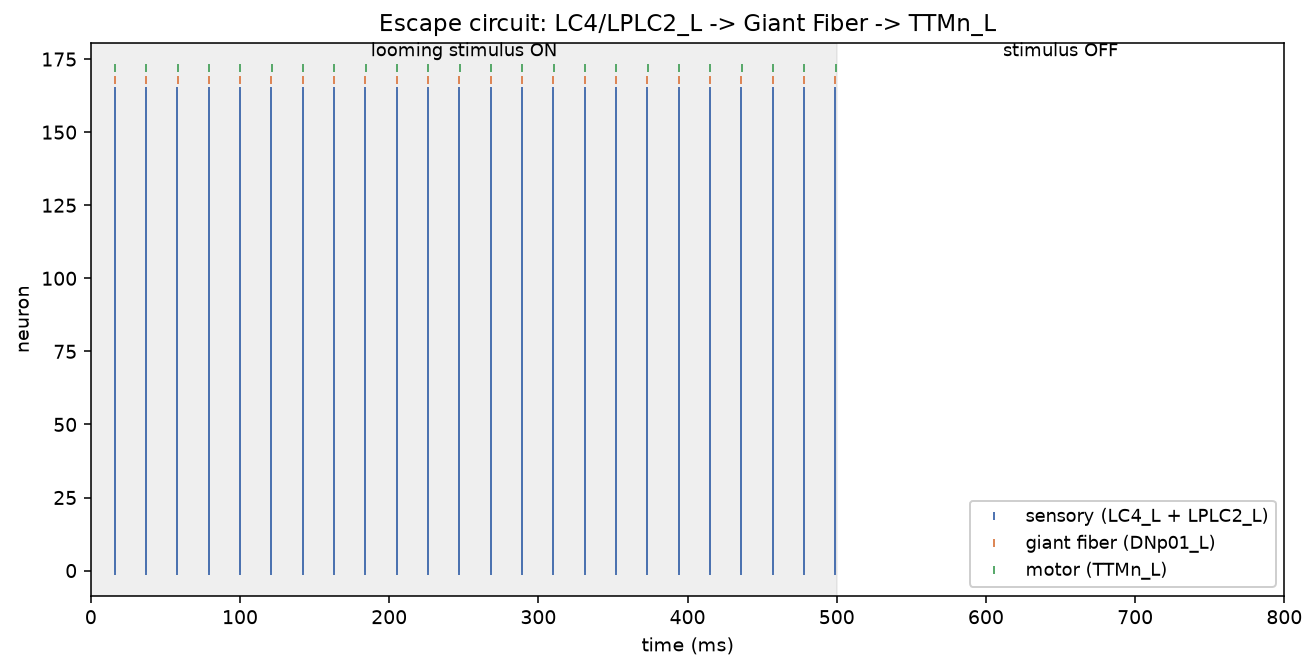
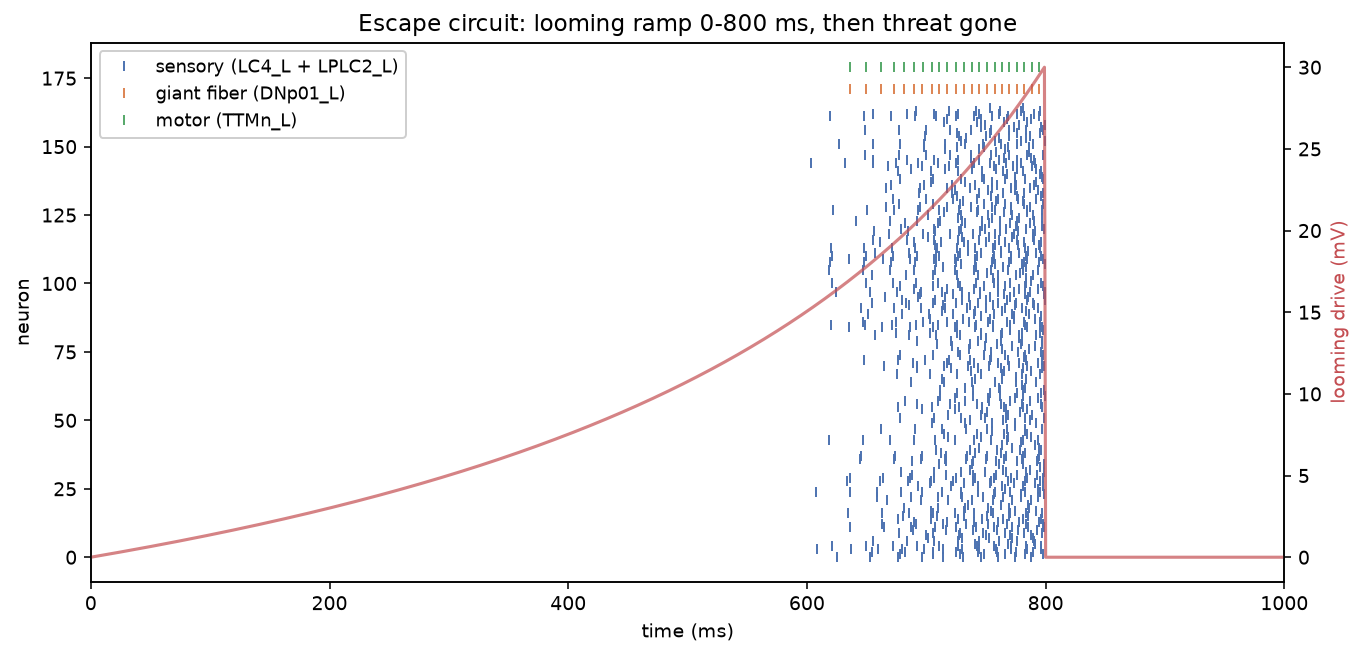
Step 2b: looming ramp stimulus and per-neuron variability
Replaces the on/off stimulus with a 1/(T_collision - t) ramp over 800 ms, so the
drive creeps and then accelerates the way an approaching object does, and gives
each sensory neuron its own excitability drawn from N(1.0, 0.15).

Result: the population now wakes up asynchronously (first spikes spread over
191 ms instead of firing in lockstep) and the Giant Fiber stays silent until
79% into the approach. It still fires a 22-spike burst rather than a single
decisive spike - reported honestly in the summary, to be addressed with
adaptation in a follow-up.

Circuit, connectome weights and the GF -> TTMn electrical-synapse justification
are unchanged.

diff --git a/simulate_circuit.py b/simulate_circuit.py
@@ -1,22 +1,22 @@
 """
-simulate_circuit.py - STEP 2: the circuit finally does something.
+simulate_circuit.py - STEP 2: the circuit makes a decision.
 
-We have the wiring (steps 0-1b). Now we turn it into neurons that actually fire, and watch
-whether a simulated "something is coming at me" makes the fly's jump command go off.
+The wiring comes from the connectome (steps 0-1b) and never changes here:
 
     LC4_L + LPLC2_L  ->  DNp01_L (Giant Fiber)  ->  TTMn_L  ->  jump
     165 visual cells     1 command cell            1 muscle driver
 
-WHAT A SPIKING SIMULATION IS, if you have never seen one. A neuron is a leaky bucket of
-voltage. Signals from other neurons pour voltage in; the bucket leaks back toward its
-resting level all the time. If the level ever reaches a threshold, the neuron "spikes"
-(fires a pulse to everyone downstream) and its bucket is instantly emptied back to rest.
-That is the whole model, and it is called Leaky Integrate-and-Fire (LIF): integrate the
-input, leak, fire, reset.
+WHAT A SPIKING SIMULATION IS. A neuron is a leaky bucket of voltage. Other neurons pour
+voltage in; the bucket leaks back toward its resting level all the time. If the level
+reaches a threshold the neuron "spikes" (fires a pulse to everyone downstream) and the
+bucket empties back to rest. That is the whole model: Leaky Integrate-and-Fire (LIF).
+BRIAN2 is a library where you describe that with a one-line equation and it runs the clock
+for you. Its party trick is UNITS: write 10*ms and -70*mV and it refuses to add them.
 
-WHAT BRIAN2 IS. A library where you describe a neuron with a one-line equation and it runs
-the clock for you. Its party trick is UNITS: you write 10*ms and -70*mV, and it refuses to
-run if you ever add a voltage to a time. You never write the time loop yourself.
+WHAT CHANGED IN THIS VERSION. The first run drove every sensory cell with the same constant
+current, so all 165 crossed threshold on the same tick forever: a metronome, not a decision.
+Two fixes, both about the INPUT, not the circuit: the stimulus now grows like an
+approaching object, and every neuron is slightly different from its neighbours.
 """
 
 import json
@@ -24,12 +24,12 @@ import numpy as np
 import matplotlib
 matplotlib.use("Agg")                  # draw into a file, not into a window
 import matplotlib.pyplot as plt
-from brian2 import (NeuronGroup, Synapses, SpikeMonitor, run, prefs, defaultclock, mV, ms)
+from brian2 import (NeuronGroup, Synapses, SpikeMonitor, TimedArray, run, prefs,
+                    defaultclock, mV, ms)
 
-# Brian2 can compile C++ for speed. This circuit is tiny, so we use plain numpy and avoid
-# needing a compiler installed on Windows.
-prefs.codegen.target = "numpy"
+prefs.codegen.target = "numpy"         # tiny circuit: no C++ compiler needed
 defaultclock.dt = 0.1 * ms             # the simulation advances in steps of 0.1 ms
+np.random.seed(0)                      # same "random" neurons on every run, so results repeat
 
 GF_BODY_ID, TTMN_BODY_ID = 10010, 804642       # left hemisphere only, from step 1b
 
@@ -37,124 +37,133 @@ GF_BODY_ID, TTMN_BODY_ID = 10010, 804642       # left hemisphere only, from step
 with open("circuit_connectivity_v2.json", encoding="utf-8") as fh:
     data = json.load(fh)
 
-# Keep only the connections landing on the LEFT Giant Fiber. Each sensory neuron contacts
-# exactly one Giant Fiber, so this cleanly selects the left-hemisphere subset.
 sensory_links = [r for r in data["connections"]["sensory_to_gf"]
-                 if r["to_bodyId"] == GF_BODY_ID]
+                 if r["to_bodyId"] == GF_BODY_ID]       # each sensory cell contacts one GF
 gf_link = [r for r in data["connections"]["gf_to_motor"]
            if r["from_bodyId"] == GF_BODY_ID and r["to_bodyId"] == TTMN_BODY_ID][0]
-
-sensory_types = [r["from_type"] for r in sensory_links]     # one row per sensory neuron
+sensory_types = [r["from_type"] for r in sensory_links]
 n_sensory = len(sensory_links)
-n_lc4 = sensory_types.count("LC4")
 print("Left-hemisphere sensory subset: {} neurons ({} LC4_L + {} LPLC2_L)".format(
-    n_sensory, n_lc4, sensory_types.count("LPLC2")))
-print("Raw synapse weights: sensory->GF {}-{}, GF->TTMn {}".format(
-    min(r["weight"] for r in sensory_links),
-    max(r["weight"] for r in sensory_links), gf_link["weight"]))
+    n_sensory, sensory_types.count("LC4"), sensory_types.count("LPLC2")))
 
-# ------------------------------------------------------------- 2. the neurons themselves
+# ------------------------------------------------------- 2. the looming stimulus, as a ramp
+# An object coming at you does not grow steadily on your retina: it creeps for a long time,
+# then explodes in size at the end. Its angular size goes like 1/distance, and at constant
+# speed the distance shrinks like (T_collision - t), so 1/(T_collision - t) is the cheapest
+# honest stand-in for "getting closer". A SIMPLIFICATION: a real looming model tracks angular
+# size and its rate of change on a curved eye. We only need the shape: slow, then sudden.
+RAMP_MS, QUIET_MS, T_COLLISION_MS = 800, 200, 1200     # virtual impact would be at 1200 ms
+PEAK_MV = 30                           # current at the end of the ramp, in mV
+
+t_ms = np.arange(RAMP_MS, dtype=float)
+raw = 1.0 / (T_COLLISION_MS - t_ms) - 1.0 / T_COLLISION_MS   # 0 at t=0, accelerating after
+ramp = PEAK_MV * raw / raw[-1]                               # rescale so the peak is PEAK_MV
+# After the ramp we cut to zero: the threat passed or was dodged. TimedArray is Brian2's
+# "look up this value at time t" object - dt=1*ms means one array entry per millisecond.
+looming = TimedArray(np.concatenate([ramp, np.zeros(QUIET_MS)]) * mV, dt=1 * ms)
+
+# ------------------------------------------------------------- 3. the neurons themselves
 V_REST, V_THRESHOLD, V_RESET = -70 * mV, -50 * mV, -70 * mV
 TAU = 10 * ms                          # how fast the bucket leaks back toward rest
 REFRACTORY = 5 * ms                    # forced silence right after a spike
 
-# The LIF equation, term by term:
-#   v            = membrane potential, the level in the bucket
-#   (V_REST - v) = the leak: when v sits above rest this is negative and drags it back down
-#   I_stim       = injected input, our stand-in for "the eye is being stimulated"
-#   / TAU        = how fast all of that happens (a big tau means a sluggish neuron)
-#   : volt       = Brian2 unit declaration - v is measured in volts
-# "(unless refractory)" freezes the voltage during the silent window after a spike.
-EQS = """
-dv/dt = (V_REST - v + I_stim) / TAU : volt (unless refractory)
-I_stim : volt
+# LIF, term by term: v is the level in the bucket; (V_REST - v) is the leak pulling it back
+# down; the stimulus pours voltage in; / TAU sets how fast; ": volt" is Brian2's unit
+# declaration; "(unless refractory)" freezes v during the silence after a spike.
+# BIOLOGICAL VARIABILITY: each sensory neuron gets its own "excitability", a multiplier on
+# how hard the same stimulus hits it. Real neurons are not clones - they differ in size, in
+# receptors, in their own membrane noise - so they never cross threshold on the same tick.
+# That messiness is the whole reason the circuit is a funnel: no single detector is
+# trustworthy, so the Giant Fiber POOLS 165 unreliable, out-of-step opinions into one call.
+EQS_SENSORY = """
+dv/dt = (V_REST - v + looming(t) * excitability) / TAU : volt (unless refractory)
+excitability : 1
 """
-COMMON = dict(model=EQS, threshold="v > V_THRESHOLD", reset="v = V_RESET",
-              refractory=REFRACTORY, method="exact")
+EQS_QUIET = """
+dv/dt = (V_REST - v) / TAU : volt (unless refractory)
+"""                                    # GF and motor are driven only by their synapses
+COMMON = dict(threshold="v > V_THRESHOLD", reset="v = V_RESET", refractory=REFRACTORY,
+              method="exact")
 
-sensory = NeuronGroup(n_sensory, name="sensory", **COMMON)
-giant_fiber = NeuronGroup(1, name="giant_fiber", **COMMON)
-motor = NeuronGroup(1, name="motor", **COMMON)
+sensory = NeuronGroup(n_sensory, EQS_SENSORY, name="sensory", **COMMON)
+sensory.excitability = np.clip(np.random.normal(1.0, 0.15, n_sensory), 0.3, None)
+giant_fiber = NeuronGroup(1, EQS_QUIET, name="giant_fiber", **COMMON)
+motor = NeuronGroup(1, EQS_QUIET, name="motor", **COMMON)
 for group in (sensory, giant_fiber, motor):
     group.v = V_REST                   # everyone starts at rest, bucket empty
 
-# --------------------------------------------------------------------- 3. the connections
-# MODELING DECISION (the connectome does not tell us this one). A synapse count is not a
-# voltage, so we have to choose what one synapse is worth in mV. The gap from rest to
-# threshold is 20 mV, so at 0.05 mV per synapse an average connection (~39 synapses)
-# delivers ~2 mV: roughly ten sensory neurons must agree within one time constant to set
-# the Giant Fiber off. That matches what the real cell does - it ignores single detectors
-# and fires when a large part of the visual field shouts "incoming" at once.
+# --------------------------------------------------------------------- 4. the connections
+# MODELING DECISION (the connectome cannot tell us this). A synapse count is not a voltage,
+# so we choose what one synapse is worth in mV. The gap from rest to threshold is 20 mV, so
+# at 0.05 mV per synapse an average connection (~39 synapses) delivers ~2 mV: about ten
+# sensory neurons must agree within one time constant to set the Giant Fiber off.
 SYNAPSE_TO_MV = 0.05 * mV
-
 sensory_to_gf = Synapses(sensory, giant_fiber, model="w : volt", on_pre="v_post += w")
 sensory_to_gf.connect(i=np.arange(n_sensory), j=np.zeros(n_sensory, dtype=int))
 sensory_to_gf.w = [r["weight"] * SYNAPSE_TO_MV for r in sensory_links]
 
 # THE GIANT FIBER -> TTMn WEIGHT IS SET BY HAND, ON PURPOSE.
-# neuPrint counts 20 chemical synapses here, far fewer than the sensory connections. Taken
-# literally that would make the last step of an escape reflex its weakest link, which is
-# wrong. In the real fly this junction is largely ELECTRICAL - a gap junction, a direct
-# hole between the two cells - and a connectome built from chemical synapse counts cannot
-# see that at all. Electrophysiology shows the connection is effectively one-to-one and
-# near failure-proof: one Giant Fiber spike, one motor spike, about 1 ms later. So we give
-# it 25 mV, just over the 20 mV needed to fire, encoding "this connection does not fail"
-# rather than the raw count of 20.
+# neuPrint counts 20 chemical synapses here, far fewer than the sensory connections, which
+# would make the last step of an escape reflex its weakest link. That is wrong: in the real
+# fly this junction is largely ELECTRICAL - a gap junction, a direct hole between the cells -
+# and a connectome built from chemical synapse counts cannot see it at all. Physiology shows
+# it is one-to-one and near failure-proof: one GF spike, one motor spike, ~1 ms later. Hence
+# 25 mV, just over the 20 mV needed to fire: "this connection does not fail", not a count.
 GF_TO_MOTOR_MV = 25 * mV
 gf_to_motor = Synapses(giant_fiber, motor, model="w : volt", on_pre="v_post += w")
 gf_to_motor.connect(i=0, j=0)
 gf_to_motor.w = GF_TO_MOTOR_MV
-
-# ------------------------------------------------------------------------- 4-5. run it
-# A SpikeMonitor is a tape recorder: it stores which neuron fired and at what time.
-# Each one needs its own plain variable: run() builds the network out of the Brian objects
-# it can see by name here, so a monitor that only exists inside a dict is silently left out
-# of the simulation and records nothing.
+# --------------------------------------------------------------------------- 5. run it
+# A SpikeMonitor records which neuron fired and when. Each needs its own plain variable:
+# run() builds the network from objects it sees by name, so one hidden in a dict is ignored.
 spikes_sensory = SpikeMonitor(sensory)
 spikes_gf = SpikeMonitor(giant_fiber)
 spikes_motor = SpikeMonitor(motor)
-monitors = {"sensory": spikes_sensory, "giant_fiber": spikes_gf, "motor": spikes_motor}
-
-# The looming stimulus: for 500 ms we inject enough current into every visual neuron to
-# push it past threshold repeatedly - "an object is growing in my field of view". Then we
-# switch it off and watch the circuit fall silent again.
-STIMULUS_MV, STIM_MS, QUIET_MS = 25 * mV, 500 * ms, 300 * ms
-sensory.I_stim = STIMULUS_MV
-run(STIM_MS)
-sensory.I_stim = 0 * mV
-run(QUIET_MS)
-
-# -------------------------------------------------------------------------- 6. raster plot
-# One tick per spike: x = when it fired, y = which neuron. The bottom band is the 165
-# sensory cells, then the Giant Fiber, then the motor neuron on top.
+run((RAMP_MS + QUIET_MS) * ms)
+# ------------------------------------------------------------------------- 6. raster plot
 fig, ax = plt.subplots(figsize=(11, 5))
-rows = [("sensory (LC4_L + LPLC2_L)", monitors["sensory"], 0, "#4c72b0"),
-        ("giant fiber (DNp01_L)", monitors["giant_fiber"], n_sensory + 3, "#dd8452"),
-        ("motor (TTMn_L)", monitors["motor"], n_sensory + 7, "#55a868")]
-for label, mon, offset, colour in rows:
-    ax.plot(mon.t / ms, np.asarray(mon.i) + offset, "|", color=colour, markersize=4,
+for label, mon, offset, colour in [
+        ("sensory (LC4_L + LPLC2_L)", spikes_sensory, 0, "#4c72b0"),
+        ("giant fiber (DNp01_L)", spikes_gf, n_sensory + 6, "#dd8452"),
+        ("motor (TTMn_L)", spikes_motor, n_sensory + 14, "#55a868")]:
+    ax.plot(mon.t / ms, np.asarray(mon.i) + offset, "|", color=colour, markersize=5,
             label=label)
-ax.axvspan(0, STIM_MS / ms, color="grey", alpha=0.12)
-ax.text(STIM_MS / ms / 2, n_sensory + 11, "looming stimulus ON", ha="center", fontsize=9)
-ax.set_xlim(0, float((STIM_MS + QUIET_MS) / ms))   # show the silent tail too
-ax.text(float(STIM_MS / ms) + 150, n_sensory + 11, "stimulus OFF", ha="center", fontsize=9)
+ax.set_xlim(0, RAMP_MS + QUIET_MS)
 ax.set_xlabel("time (ms)")
 ax.set_ylabel("neuron")
-ax.set_title("Escape circuit: LC4/LPLC2_L -> Giant Fiber -> TTMn_L")
-ax.legend(loc="lower right", fontsize=9, framealpha=0.95)
-fig.subplots_adjust(top=0.90)
+ax.set_title("Escape circuit: looming ramp 0-800 ms, then threat gone")
+ax.legend(loc="upper left", fontsize=9, framealpha=0.95)
+
+# Second y-axis: the stimulus curve itself, so you can see WHERE on the ramp the decision
+# happened rather than guessing from the spikes alone.
+ax2 = ax.twinx()
+ax2.plot(np.arange(RAMP_MS + QUIET_MS), np.concatenate([ramp, np.zeros(QUIET_MS)]),
+         color="#c44e52", linewidth=1.6, alpha=0.7)
+ax2.set_ylabel("looming drive (mV)", color="#c44e52")
 fig.savefig("escape_circuit_test.png", dpi=140, bbox_inches="tight")
 
 # ------------------------------------------------------------------------ 7. did it work?
-print("\n" + "=" * 62)
-chain = True
-for label, mon in (("sensory (165 cells)", monitors["sensory"]),
-                   ("giant fiber DNp01_L", monitors["giant_fiber"]),
-                   ("motor TTMn_L", monitors["motor"])):
-    n_spikes = len(mon.t)
-    chain = chain and n_spikes > 0
-    first = "{:.1f} ms".format(float(min(mon.t / ms))) if n_spikes else "NEVER FIRED"
-    print("{:22s} {:6d} spikes, first at {}".format(label, n_spikes, first))
-print("Chain reaction complete: stimulus -> vision -> Giant Fiber -> jump muscle."
-      if chain else "CHAIN BROKEN: some layer never fired.")
+# spike_trains() gives, per neuron, the list of times it fired; we only want each cell's
+# FIRST spike, to see whether the population woke up together or one by one.
+firsts = np.array([float(t[0] / ms) for t in spikes_sensory.spike_trains().values() if len(t)])
+gf_t = np.asarray(spikes_gf.t / ms, dtype=float)
+motor_t = np.asarray(spikes_motor.t / ms, dtype=float)
+
+print("\n" + "=" * 66)
+print("1. ASYNCHRONY: {}/{} sensory neurons fired, first spikes spread from {:.1f} to {:.1f}"
+      " ms (window {:.0f} ms, std {:.1f} ms).".format(len(firsts), n_sensory, firsts.min(),
+      firsts.max(), firsts.max() - firsts.min(), firsts.std()))
+if len(gf_t):
+    pct = 100 * gf_t[0] / RAMP_MS
+    print("2. DECISION POINT: Giant Fiber first fired at {:.1f} ms = {:.0f}% into the ramp "
+          "({} in the approach).".format(gf_t[0], pct,
+          "early" if pct < 33 else "mid" if pct < 66 else "late"))
+    print("3. DECISIVENESS: {} Giant Fiber spike(s){}.".format(len(gf_t), "" if len(gf_t) == 1
+          else ", from {:.1f} to {:.1f} ms - a burst, NOT one clean decision".format(
+              gf_t[0], gf_t[-1])))
+else:
+    print("2-3. The Giant Fiber never fired: pooled input never crossed threshold.")
+print("4. MOTOR OUTPUT: {} TTMn spike(s){}.".format(len(motor_t),
+      ", first {:.1f} ms after the Giant Fiber".format(motor_t[0] - gf_t[0])
+      if len(motor_t) and len(gf_t) else ""))
 print("Wrote escape_circuit_test.png")
